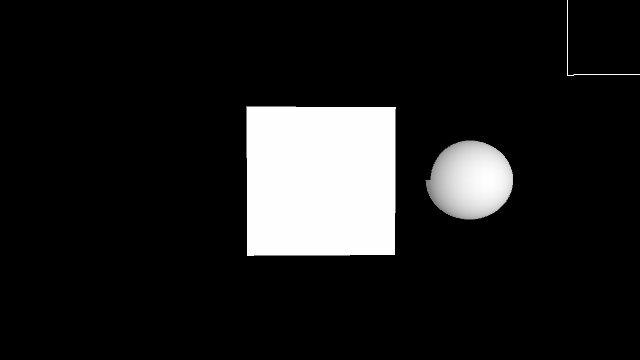
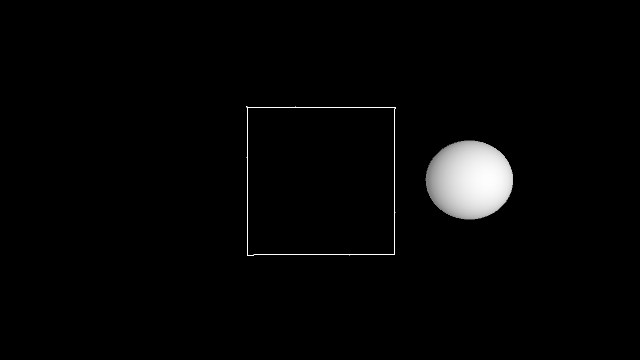
Fix background image to always be in the correct place and never appear in front of any geometry. Fix EdgeFilter test. May need to revist flipping etc to be cleaner.

diff --git a/src/processing_pgraphics.cc b/src/processing_pgraphics.cc
@@ -560,7 +560,7 @@ public:
                         _shape.getTintColor() );
    }
 
-   void image(PImage pimage, float left, float top, float right, float bottom) {
+   void image(PImage pimage, float left, float top, float right, float bottom, bool flip = false) {
       if ( image_mode == CORNER ) {
          float iwidth = right;
          float iheight = bottom;
@@ -574,24 +574,36 @@ public:
          right = left + iwidth;
          bottom = top + iheight;
       }
-      drawTexturedQuad({left,top},{right,top},{right,bottom}, {left,bottom},
+      if (flip) {
+         drawTexturedQuad({left,bottom},{right,bottom},{right,top}, {left,top},
                        pimage, _shape.getTintColor()  );
+      } else {
+         drawTexturedQuad({left,top},{right,top},{right,bottom}, {left,bottom},
+                       pimage, _shape.getTintColor()  );
+      }
    }
 
-   void image(PImage pimage, float x, float y) {
+   void image(PImage pimage, float x, float y, bool flip = false) {
       if ( image_mode == CORNER ) {
-         image( pimage, x, y, pimage.width, pimage.height );;
+         image( pimage, x, y, pimage.width, pimage.height, flip );
     } else if ( image_mode == CORNERS ) {
-         image( pimage, x, y, x + pimage.width, y + pimage.height );;
+         image( pimage, x, y, x + pimage.width, y + pimage.height, flip );
       } else   if (image_mode == CENTER) {
-         image( pimage, x, y, pimage.width, pimage.height );
+         image( pimage, x, y, pimage.width, pimage.height,flip );
       } else {
          abort();
       }
    }
 
-   void background(PImage bg) {
-      image(bg,0,0);
+   void background(PImage bg, bool flip = false) {
+      pushMatrix();
+      _shape.resetMatrix();
+      hint(DISABLE_DEPTH_MASK);
+      hint(DISABLE_DEPTH_TEST);
+      image(bg,0,0,flip);
+      hint(ENABLE_DEPTH_TEST);
+      hint(ENABLE_DEPTH_MASK);
+      popMatrix();
    }
 
    void loadPixels() {
@@ -980,19 +992,7 @@ public:
    void filter(PShader pshader) {
       PShader oldShader = currentShader;
       shader(pshader);
-      // UPSIDE DOWN!:  image(createImageFromTexture(getAsTexture()),0,0);
-
-      float left = 0;
-      float right = 0 + getWidth();
-      float top = 0;
-      float bottom = 0 + getHeight();
-
-      drawTexturedQuad( {left, bottom},
-                        {right,bottom},
-                        {right, top},
-                        {left, top},
-                        createImageFromTexture(getAsTexture()),
-                        WHITE );
+      background( createImageFromTexture(getAsTexture()), true );
       shader(oldShader);
    }
 
